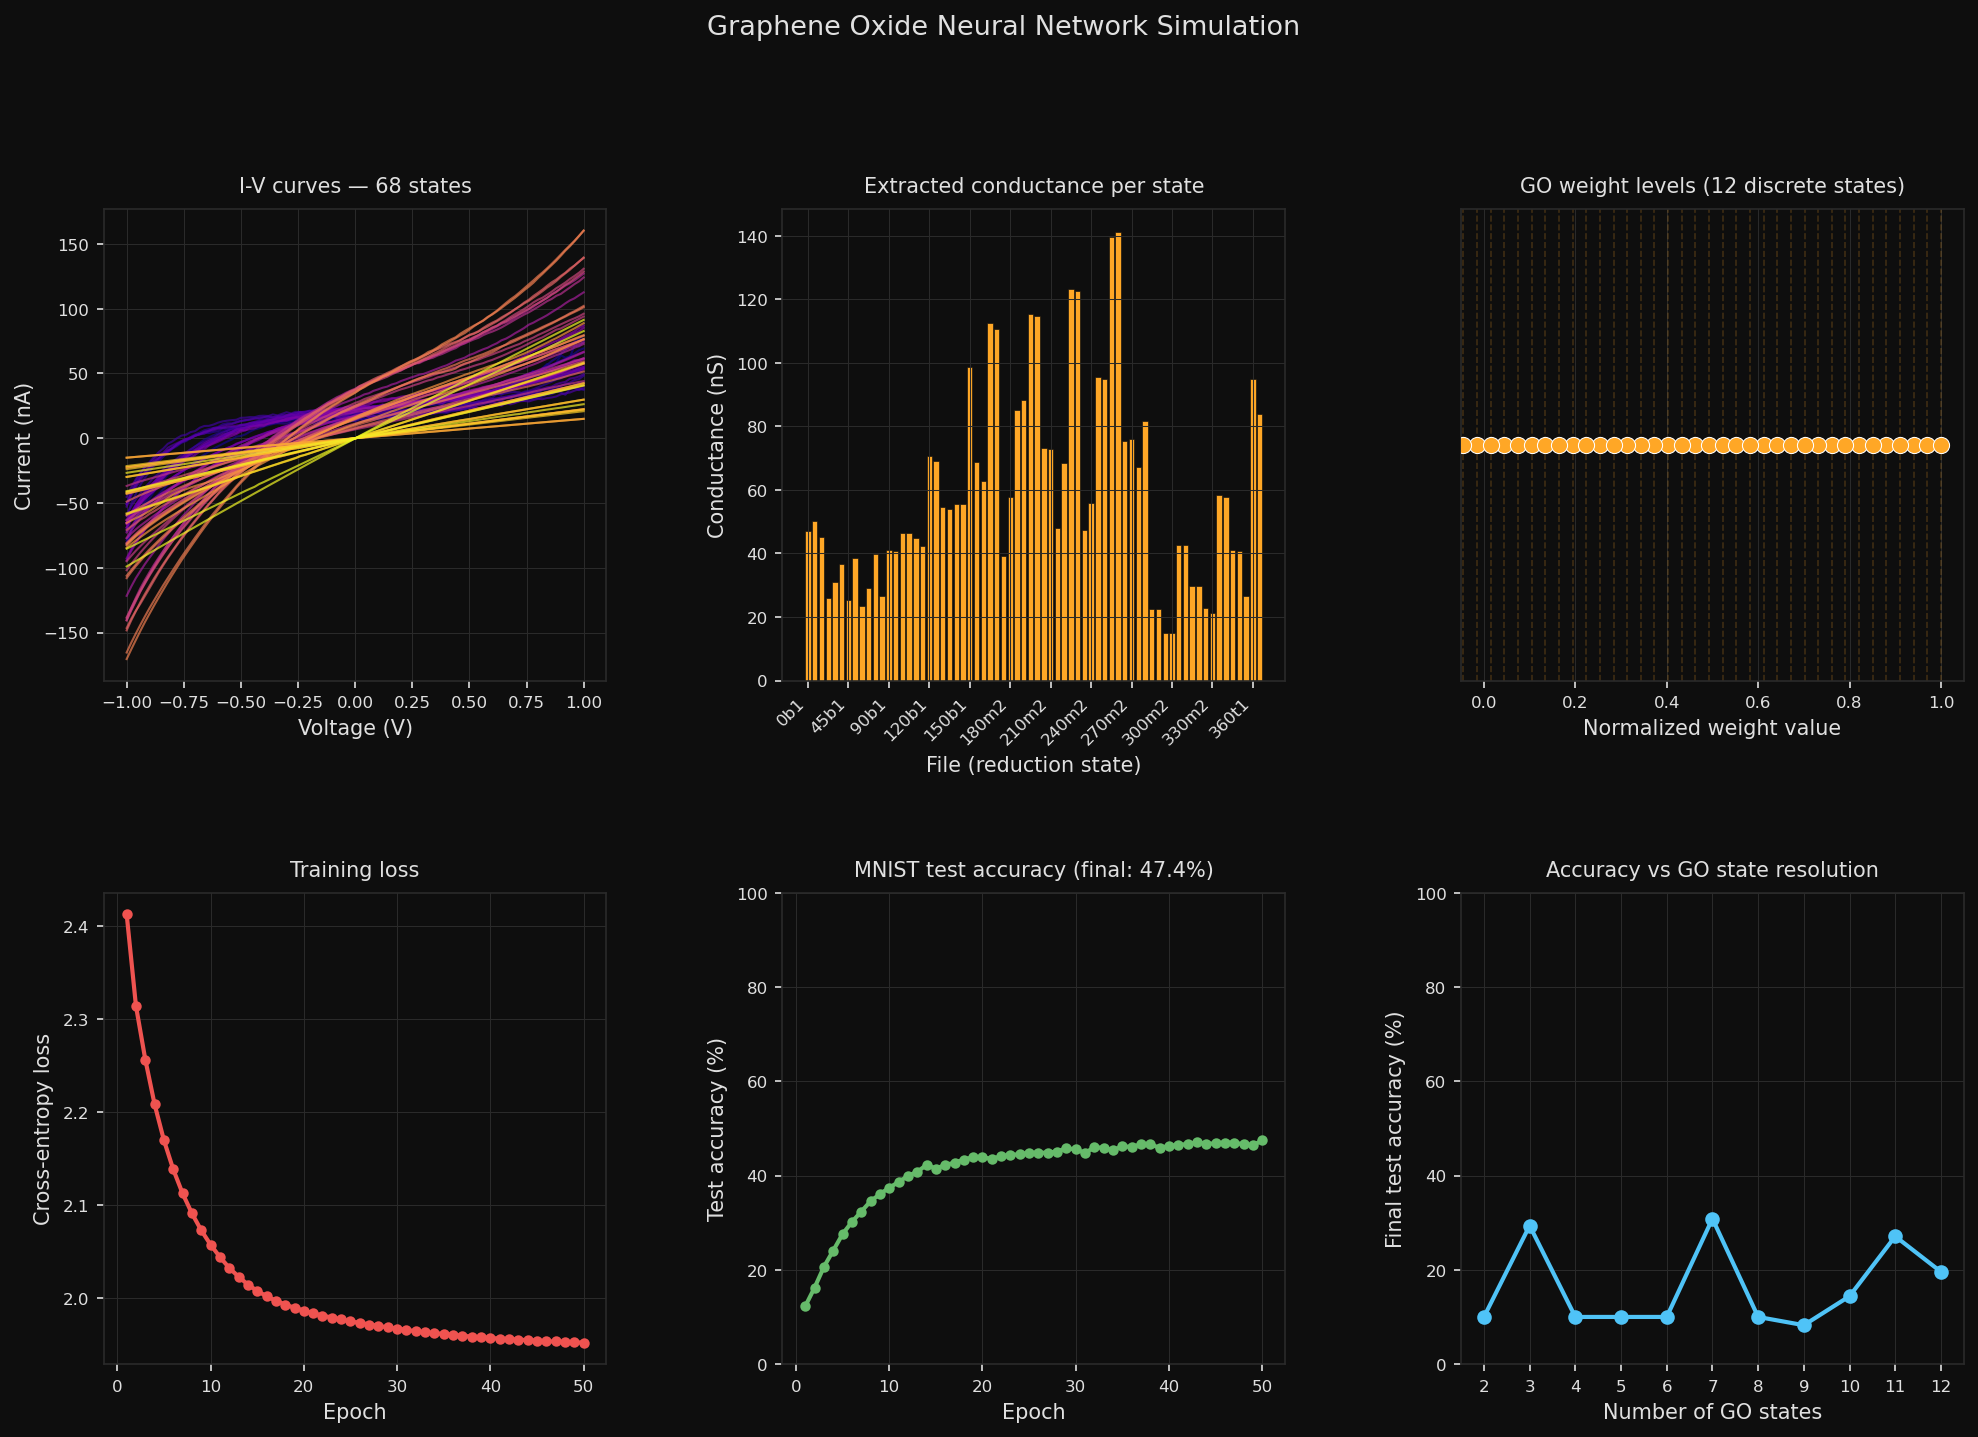
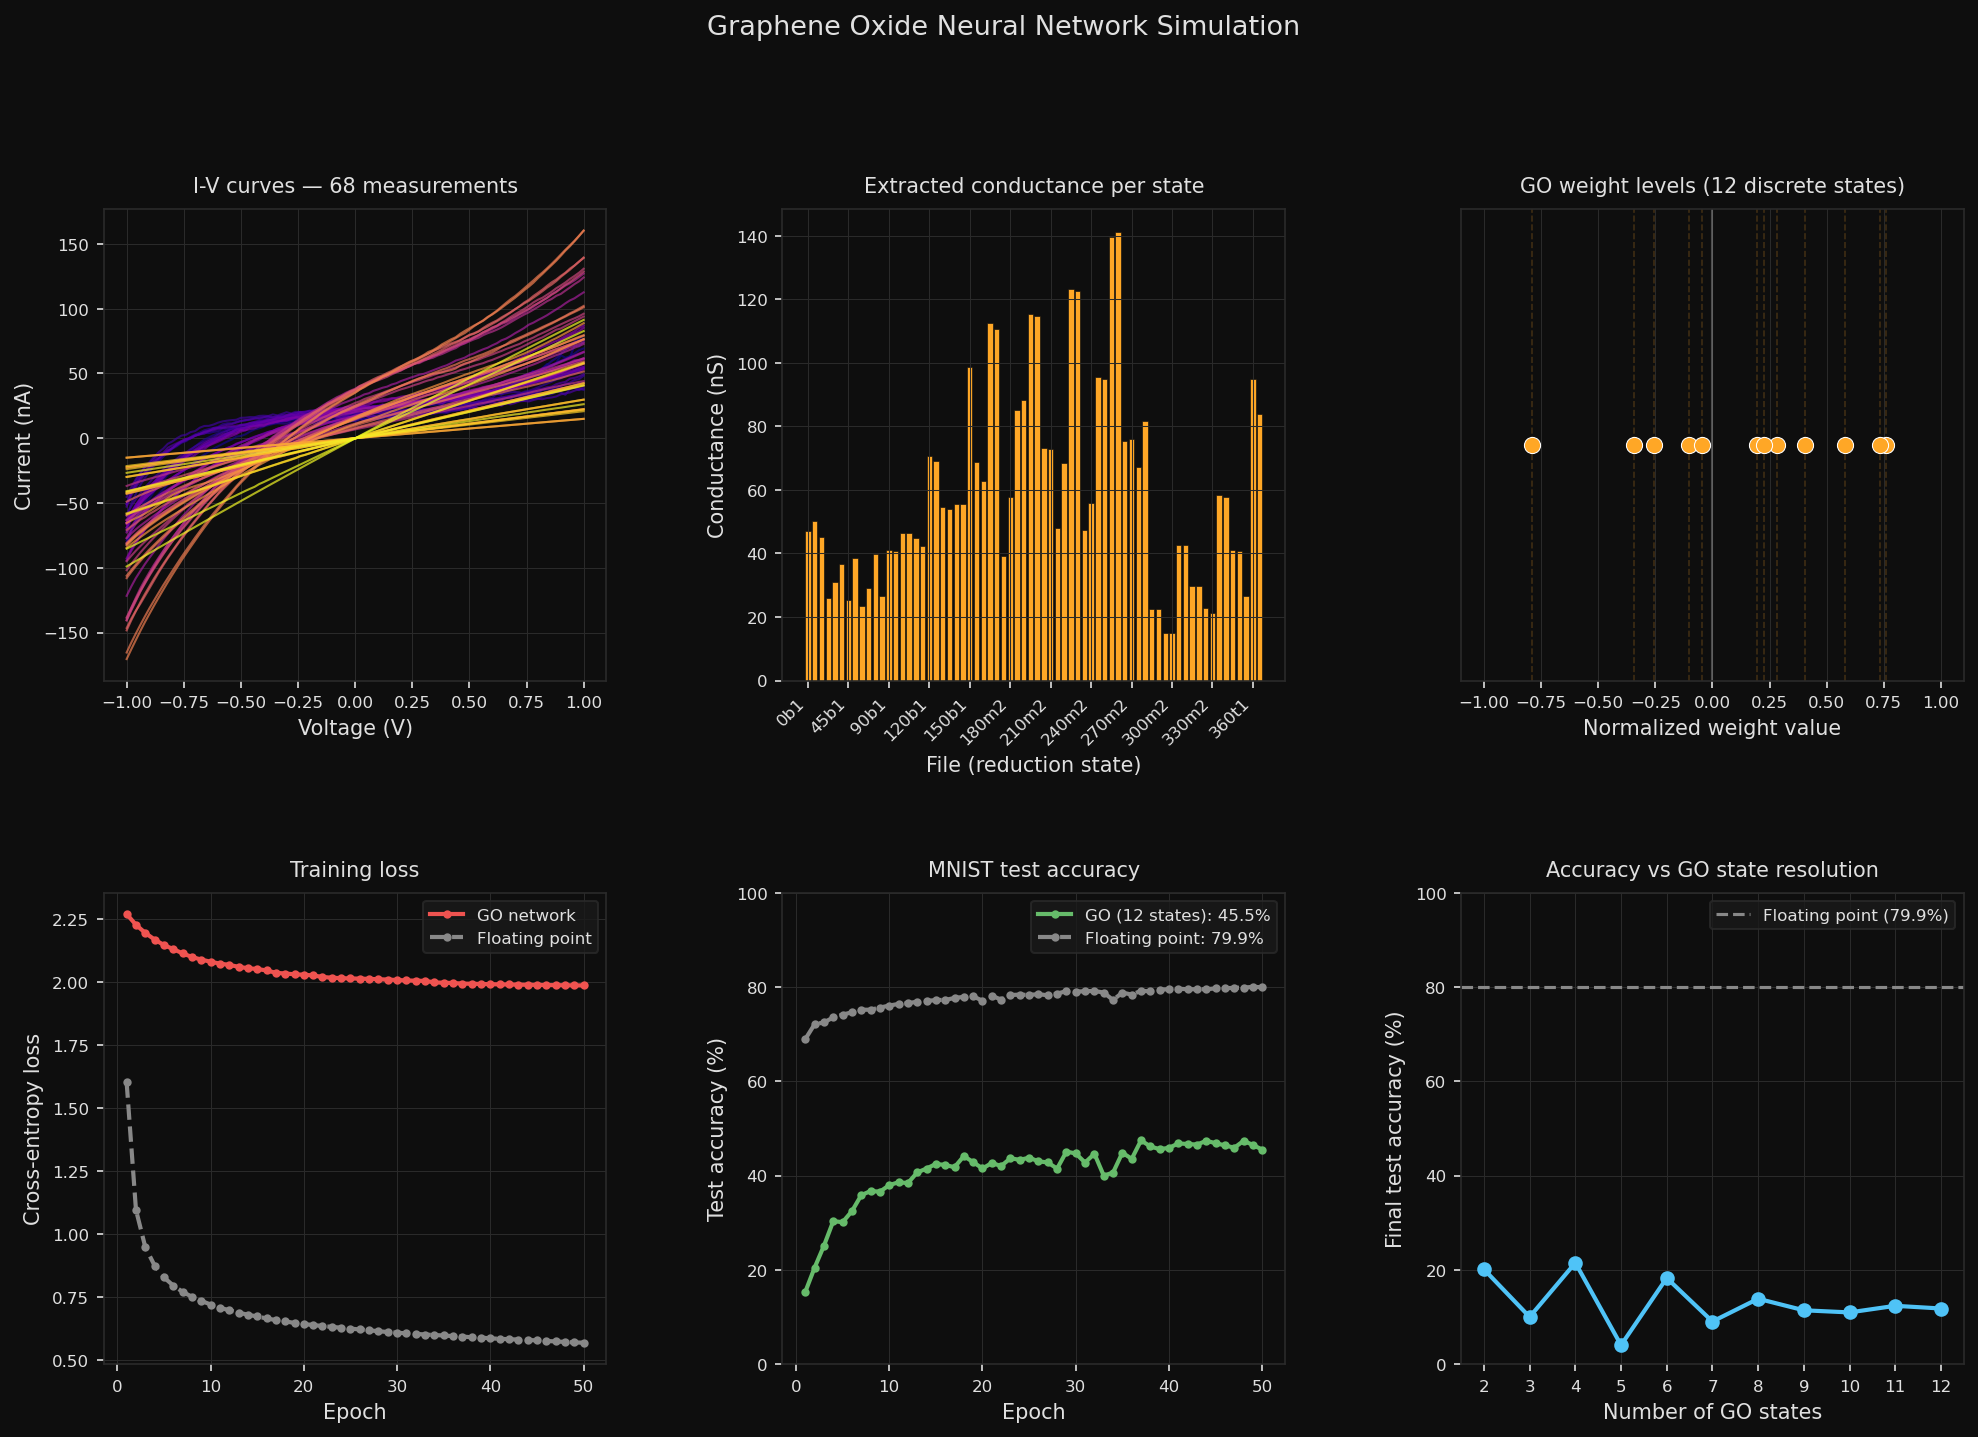
add baseline comparison and fix weight levels plot to -1 to +1

diff --git a/go_neural_network.py b/go_neural_network.py
@@ -6,7 +6,8 @@ Pipeline:
   2. Extract conductance G = I/V for each state (Ohm's law)
   3. Normalize conductances -> discrete weight levels
   4. Train a 2-layer neural net on MNIST, weights constrained to GO states
-  5. Plot: I-V curves, weight levels, training curve, accuracy vs n_states
+  5. Train unconstrained floating point baseline for comparison
+  6. Plot: I-V curves, weight levels, training curve, accuracy vs n_states
 """
 
 import numpy as np
@@ -104,17 +105,16 @@ IV_FILES = [
     "360t2.csv",
 ]
 
-CURRENT_UNIT = "A"    # your currents are in amps (e.g. 8.5e-08)
-VOLTAGE_COL  = 0      # after stripping the index column
-CURRENT_COL  = 1      # after stripping the index column
-
-# How to extract a single G value from a full I-V curve:
-#   "slope"  = linear regression slope (best for ohmic devices)
-#   "point"  = G at a specific voltage (set EVAL_VOLTAGE below)
+CURRENT_UNIT = "A"
+VOLTAGE_COL  = 0
+CURRENT_COL  = 1
 CONDUCTANCE_METHOD = "slope"
 EVAL_VOLTAGE = 0.5
 
-# Set to True to also run the accuracy vs n_states sweep (takes ~5 min extra)
+# Number of GO states to use for main network
+N_STATES = 12
+
+# Set to True to run the accuracy vs n_states sweep (adds ~10 min)
 RUN_STATE_SWEEP = True
 
 # =============================================================================
@@ -128,10 +128,9 @@ def load_iv_files(file_list):
     curves = []
     for f in file_list:
         try:
-            # usecols=(1,2) skips the leading row-index column
             data = np.loadtxt(f, delimiter=",", skiprows=1, usecols=(1, 2))
-            v = data[:, 0]  # voltage
-            i = data[:, 1]  # current (already in amps)
+            v = data[:, 0]
+            i = data[:, 1]
             curves.append((v, i))
         except Exception as e:
             print(f"  WARNING: could not load {f}: {e}")
@@ -140,7 +139,6 @@ def load_iv_files(file_list):
 def extract_conductance(v, i, method="slope", eval_v=0.5):
     """Extract a single G (Siemens) from one I-V curve."""
     if method == "slope":
-        # Linear regression through origin: I = G*V
         g = np.dot(v, i) / np.dot(v, v)
         return abs(g)
     elif method == "point":
@@ -148,15 +146,18 @@ def extract_conductance(v, i, method="slope", eval_v=0.5):
         return abs(i_at_v / eval_v) if eval_v != 0 else 0.0
 
 # =============================================================================
-# STEP 3: Normalize conductances to weight levels in [0, 1]
+# STEP 3: Normalize conductances to weight levels
 # =============================================================================
 
 def conductance_to_weights(g_values):
-    """Rank-based normalization centered around zero, giving range [-1, 1]."""
+    """Rank-based normalization, evenly spread from -1 to +1.
+    Rank-based means outliers don't squash everything else.
+    Centered at zero so network can have both positive and negative weights.
+    """
     g = np.array(g_values)
     ranks = np.argsort(np.argsort(g))
-    normalized = ranks / (len(ranks) - 1)  # 0 to 1
-    return (normalized * 2) - 1             # shift to -1 to +1
+    normalized = ranks / (len(ranks) - 1)   # 0 to 1
+    return (normalized * 2) - 1              # -1 to +1
 
 def quantize_to_go_states(w, go_weight_levels):
     """Snap each weight to the nearest available GO conductance level."""
@@ -166,24 +167,16 @@ def quantize_to_go_states(w, go_weight_levels):
     return levels[idx]
 
 # =============================================================================
-# STEP 4: MNIST neural network
+# STEP 4: MNIST loader (no tensorflow needed)
 # =============================================================================
 
 def load_mnist():
-    """Load MNIST via keras (standalone, no tensorflow needed)."""
+    """Download and load MNIST using only Python built-ins."""
     try:
         import urllib.request
         import gzip
-        import os
 
         base_url = "https://storage.googleapis.com/tensorflow/tf-keras-datasets/"
-        files = {
-            "train_images": "train-images-idx3-ubyte.gz",
-            "train_labels": "train-labels-idx1-ubyte.gz",
-            "test_images":  "t10k-images-idx3-ubyte.gz",
-            "test_labels":  "t10k-labels-idx1-ubyte.gz",
-        }
-
         cache_dir = Path.home() / ".mnist_cache"
         cache_dir.mkdir(exist_ok=True)
 
@@ -196,12 +189,12 @@ def load_mnist():
 
         def load_images(filename):
             with gzip.open(download(filename), "rb") as f:
-                f.read(16)  # skip header
+                f.read(16)
                 return np.frombuffer(f.read(), dtype=np.uint8).reshape(-1, 784)
 
         def load_labels(filename):
             with gzip.open(download(filename), "rb") as f:
-                f.read(8)   # skip header
+                f.read(8)
                 return np.frombuffer(f.read(), dtype=np.uint8)
 
         x_train = load_images("train-images-idx3-ubyte.gz").astype(np.float32) / 255.0
@@ -218,6 +211,10 @@ def load_mnist():
 
     except Exception as e:
         raise RuntimeError(f"Could not load MNIST: {e}")
+
+# =============================================================================
+# NEURAL NETWORK
+# =============================================================================
 
 def sigmoid(x):
     return 1.0 / (1.0 + np.exp(-np.clip(x, -500, 500)))
@@ -236,8 +233,13 @@ class GONeuralNet:
     """
     Two-layer fully-connected network with GO-constrained weights.
     Architecture: 784 -> hidden_size -> 10
+
+    Weights are initialized small and random, then snapped to the nearest
+    GO conductance level after every gradient update (straight-through
+    estimator). This means weights can only ever take values your real
+    chip can physically hold.
     """
-    def __init__(self, hidden_size, go_weight_levels, lr=0.05, seed=0):
+    def __init__(self, hidden_size, go_weight_levels, lr=0.1, seed=0):
         rng = np.random.default_rng(seed)
         self.lr     = lr
         self.levels = np.array(sorted(go_weight_levels))
@@ -248,7 +250,6 @@ class GONeuralNet:
         self.W2 = rng.normal(0, scale, (hidden_size, 10)).astype(np.float32)
         self.b2 = np.zeros(10, dtype=np.float32)
 
-        # Quantize at init — weights can only be GO states from the start
         self.W1 = quantize_to_go_states(self.W1, self.levels)
         self.W2 = quantize_to_go_states(self.W2, self.levels)
 
@@ -269,12 +270,11 @@ class GONeuralNet:
         dz1 = da1 * sigmoid_deriv(self.a1)
         dW1 = self.x.T @ dz1
         db1 = dz1.sum(axis=0)
-        # Continuous gradient step
         self.W1 -= self.lr * dW1
         self.b1 -= self.lr * db1
         self.W2 -= self.lr * dW2
         self.b2 -= self.lr * db2
-        # Snap weights back to nearest GO state (straight-through estimator)
+        # Snap back to nearest GO state after every update
         self.W1 = quantize_to_go_states(self.W1, self.levels)
         self.W2 = quantize_to_go_states(self.W2, self.levels)
 
@@ -283,7 +283,7 @@ class GONeuralNet:
         return np.mean(pred == y_labels)
 
 def train(net, x_train, y_train_oh, x_test, y_test_labels,
-          epochs=50, batch_size=256):
+          epochs=50, batch_size=256, label=""):
     n = x_train.shape[0]
     loss_hist, acc_hist = [], []
     rng = np.random.default_rng(1)
@@ -300,24 +300,24 @@ def train(net, x_train, y_train_oh, x_test, y_test_labels,
         acc = net.accuracy(x_test, y_test_labels)
         loss_hist.append(epoch_loss / (n // batch_size))
         acc_hist.append(acc)
-        print(f"  Epoch {epoch+1:2d}/{epochs}  loss={loss_hist[-1]:.4f}  "
-              f"test_acc={acc*100:.1f}%")
+        tag = f" [{label}]" if label else ""
+        print(f"  Epoch {epoch+1:2d}/{epochs}{tag}  "
+              f"loss={loss_hist[-1]:.4f}  test_acc={acc*100:.1f}%")
     return loss_hist, acc_hist
 
 # =============================================================================
-# STEP 5: Accuracy vs number of GO states experiment
+# STEP 5: Accuracy vs number of GO states sweep
 # =============================================================================
 
 def accuracy_vs_states(x_train, y_train_oh, x_test, y_test_labels,
-                       all_g_values, state_counts, hidden=64, epochs=10):
+                       all_g_values, state_counts, hidden=64, epochs=20):
     results = {}
     for n in state_counts:
         print(f"\n--- {n} GO states ---")
         idx    = np.round(np.linspace(0, len(all_g_values)-1, n)).astype(int)
         subset = np.array(all_g_values)[idx]
         levels = conductance_to_weights(subset)
-        centered = (levels * 2) - 1
-        net    = GONeuralNet(hidden, centered, lr=0.5)
+        net    = GONeuralNet(hidden, levels, lr=0.1)
         _, acc_hist = train(net, x_train.copy(), y_train_oh.copy(),
                             x_test, y_test_labels, epochs=epochs)
         results[n] = acc_hist
@@ -327,14 +327,18 @@ def accuracy_vs_states(x_train, y_train_oh, x_test, y_test_labels,
 # PLOTTING
 # =============================================================================
 
-def plot_all(curves, file_list, g_values, go_weight_levels,
-             loss_hist, acc_hist, states_results=None):
+def plot_all(curves, file_list, g_values, centered_levels,
+             loss_hist, acc_hist,
+             baseline_loss=None, baseline_acc=None,
+             states_results=None):
+
     fig = plt.figure(figsize=(16, 10))
     fig.patch.set_facecolor("#0e0e0e")
     gs  = gridspec.GridSpec(2, 3, figure=fig, hspace=0.45, wspace=0.35)
 
     c = {"bg": "#0e0e0e", "fg": "#e0e0e0", "grid": "#2a2a2a",
-         "accent": "#4fc3f7", "go": "#ffa726", "loss": "#ef5350", "acc": "#66bb6a"}
+         "accent": "#4fc3f7", "go": "#ffa726",
+         "loss": "#ef5350", "acc": "#66bb6a", "base": "#888888"}
 
     def style(ax, title):
         ax.set_facecolor(c["bg"])
@@ -355,7 +359,7 @@ def plot_all(curves, file_list, g_values, go_weight_levels,
         ax1.plot(v, curr * 1e9, color=color, linewidth=1, alpha=0.7)
     ax1.set_xlabel("Voltage (V)")
     ax1.set_ylabel("Current (nA)")
-    style(ax1, f"I-V curves — {len(curves)} states")
+    style(ax1, f"I-V curves — {len(curves)} measurements")
 
     # 2. Conductance bar chart
     ax2 = fig.add_subplot(gs[0, 1])
@@ -370,40 +374,63 @@ def plot_all(curves, file_list, g_values, go_weight_levels,
                         rotation=45, ha="right", fontsize=7)
     style(ax2, "Extracted conductance per state")
 
-    # 3. Weight levels
+    # 3. Weight levels (-1 to +1)
     ax3 = fig.add_subplot(gs[0, 2])
-    ax3.scatter(go_weight_levels, np.zeros_like(go_weight_levels),
+    ax3.scatter(centered_levels, np.zeros_like(centered_levels),
                 s=60, color=c["go"], zorder=5, edgecolors="white", linewidths=0.5)
-    for w in go_weight_levels:
+    for w in centered_levels:
         ax3.axvline(w, color=c["go"], alpha=0.2, linewidth=0.8, linestyle="--")
+    ax3.axvline(0, color=c["fg"], alpha=0.3, linewidth=1)
     ax3.set_xlabel("Normalized weight value")
     ax3.set_yticks([])
-    ax3.set_xlim(-0.05, 1.05)
+    ax3.set_xlim(-1.1, 1.1)
     style(ax3, f"GO weight levels ({len(centered_levels)} discrete states)")
 
-    # 4. Training loss
+    # 4. Training loss (GO + baseline)
     ax4 = fig.add_subplot(gs[1, 0])
     ax4.plot(range(1, len(loss_hist)+1), loss_hist,
-             color=c["loss"], linewidth=2, marker="o", markersize=4)
+             color=c["loss"], linewidth=2, marker="o", markersize=3,
+             label="GO network")
+    if baseline_loss:
+        ax4.plot(range(1, len(baseline_loss)+1), baseline_loss,
+                 color=c["base"], linewidth=2, linestyle="--",
+                 marker="o", markersize=3, label="Floating point")
+        ax4.legend(facecolor="#1a1a1a", edgecolor=c["grid"],
+                   labelcolor=c["fg"], fontsize=8)
     ax4.set_xlabel("Epoch")
     ax4.set_ylabel("Cross-entropy loss")
     style(ax4, "Training loss")
 
-    # 5. Test accuracy
+    # 5. Test accuracy (GO + baseline)
     ax5 = fig.add_subplot(gs[1, 1])
     ax5.plot(range(1, len(acc_hist)+1), [a*100 for a in acc_hist],
-             color=c["acc"], linewidth=2, marker="o", markersize=4)
+             color=c["acc"], linewidth=2, marker="o", markersize=3,
+             label=f"GO ({len(centered_levels)} states): {acc_hist[-1]*100:.1f}%")
+    if baseline_acc:
+        ax5.plot(range(1, len(baseline_acc)+1), [a*100 for a in baseline_acc],
+                 color=c["base"], linewidth=2, linestyle="--",
+                 marker="o", markersize=3,
+                 label=f"Floating point: {baseline_acc[-1]*100:.1f}%")
+        ax5.legend(facecolor="#1a1a1a", edgecolor=c["grid"],
+                   labelcolor=c["fg"], fontsize=8)
     ax5.set_xlabel("Epoch")
     ax5.set_ylabel("Test accuracy (%)")
     ax5.set_ylim(0, 100)
-    style(ax5, f"MNIST test accuracy (final: {acc_hist[-1]*100:.1f}%)")
+    style(ax5, "MNIST test accuracy")
 
-    # 6. Accuracy vs states
+    # 6. Accuracy vs number of states
     ax6 = fig.add_subplot(gs[1, 2])
     if states_results:
         ns     = sorted(states_results.keys())
         finals = [states_results[n][-1] * 100 for n in ns]
-        ax6.plot(ns, finals, color=c["accent"], linewidth=2, marker="o", markersize=6)
+        ax6.plot(ns, finals, color=c["accent"],
+                 linewidth=2, marker="o", markersize=6)
+        if baseline_acc:
+            ax6.axhline(baseline_acc[-1]*100, color=c["base"],
+                        linewidth=1.5, linestyle="--",
+                        label=f"Floating point ({baseline_acc[-1]*100:.1f}%)")
+            ax6.legend(facecolor="#1a1a1a", edgecolor=c["grid"],
+                       labelcolor=c["fg"], fontsize=8)
         ax6.set_xlabel("Number of GO states")
         ax6.set_ylabel("Final test accuracy (%)")
         ax6.set_xticks(ns)
@@ -445,31 +472,52 @@ if __name__ == "__main__":
         print(f"  {fname:<20} {g*1e9:.4f} nS")
 
     go_weight_levels = conductance_to_weights(g_values)
-    print(f"\nNormalized weight levels ({len(go_weight_levels)} states):")
-    print(np.round(go_weight_levels, 3))
+
+    # Pick N_STATES evenly spaced from all available levels
+    idx             = np.round(np.linspace(0, len(go_weight_levels)-1,
+                                           N_STATES)).astype(int)
+    centered_levels = go_weight_levels[idx]
+
+    print(f"\nUsing {N_STATES} GO states:")
+    print(np.round(centered_levels, 3))
 
     print("\nLoading MNIST...")
     x_train, y_train_oh, x_test, y_test_oh, y_test_labels = load_mnist()
     print(f"  Train: {x_train.shape}  Test: {x_test.shape}")
 
-    print("\nTraining GO-constrained network on MNIST...")
-    # Pick 12 evenly spaced states from your 68
-    n_states = 12
-    idx = np.round(np.linspace(0, len(go_weight_levels)-1, n_states)).astype(int)
-    subset_levels = go_weight_levels[idx]
-    centered_levels = (subset_levels * 2) - 1
+    # --- Train GO-constrained network ---
+    print(f"\nTraining GO-constrained network ({N_STATES} states)...")
     net = GONeuralNet(hidden_size=128, go_weight_levels=centered_levels, lr=0.5)
     loss_hist, acc_hist = train(net, x_train, y_train_oh,
-                                    x_test, y_test_labels, epochs=50)
+                                x_test, y_test_labels,
+                                epochs=50, label="GO")
 
+    # --- Train floating point baseline ---
+    print("\nTraining unconstrained floating point baseline...")
+    baseline_levels  = np.linspace(-1, 1, 1000)
+    net_baseline     = GONeuralNet(hidden_size=128,
+                                   go_weight_levels=baseline_levels, lr=0.1)
+    baseline_loss, baseline_acc = train(net_baseline, x_train.copy(),
+                                        y_train_oh.copy(),
+                                        x_test, y_test_labels,
+                                        epochs=50, label="baseline")
+
+    print(f"\nGO network final accuracy:     {acc_hist[-1]*100:.1f}%")
+    print(f"Floating point final accuracy: {baseline_acc[-1]*100:.1f}%")
+    print(f"Quantization cost:             "
+          f"{(baseline_acc[-1] - acc_hist[-1])*100:.1f}% accuracy")
+
+    # --- State sweep ---
     states_results = None
     if RUN_STATE_SWEEP:
-        print("\nRunning state sweep...")
-        state_counts = list(range(2, 13))  # 2, 3, 4, 5, 6, 7, 8, 9, 10, 11, 12
+        print("\nRunning state sweep (2 to 12 states)...")
+        state_counts   = list(range(2, 13))
         states_results = accuracy_vs_states(
             x_train, y_train_oh, x_test, y_test_labels,
-            g_values, state_counts, hidden=64, epochs=10
+            go_weight_levels, state_counts, hidden=64, epochs=20
         )
 
-    plot_all(curves, IV_FILES[:len(curves)], g_values, go_weight_levels,
-             loss_hist, acc_hist, states_results)
+    plot_all(curves, IV_FILES[:len(curves)], g_values, centered_levels,
+             loss_hist, acc_hist,
+             baseline_loss=baseline_loss, baseline_acc=baseline_acc,
+             states_results=states_results)
